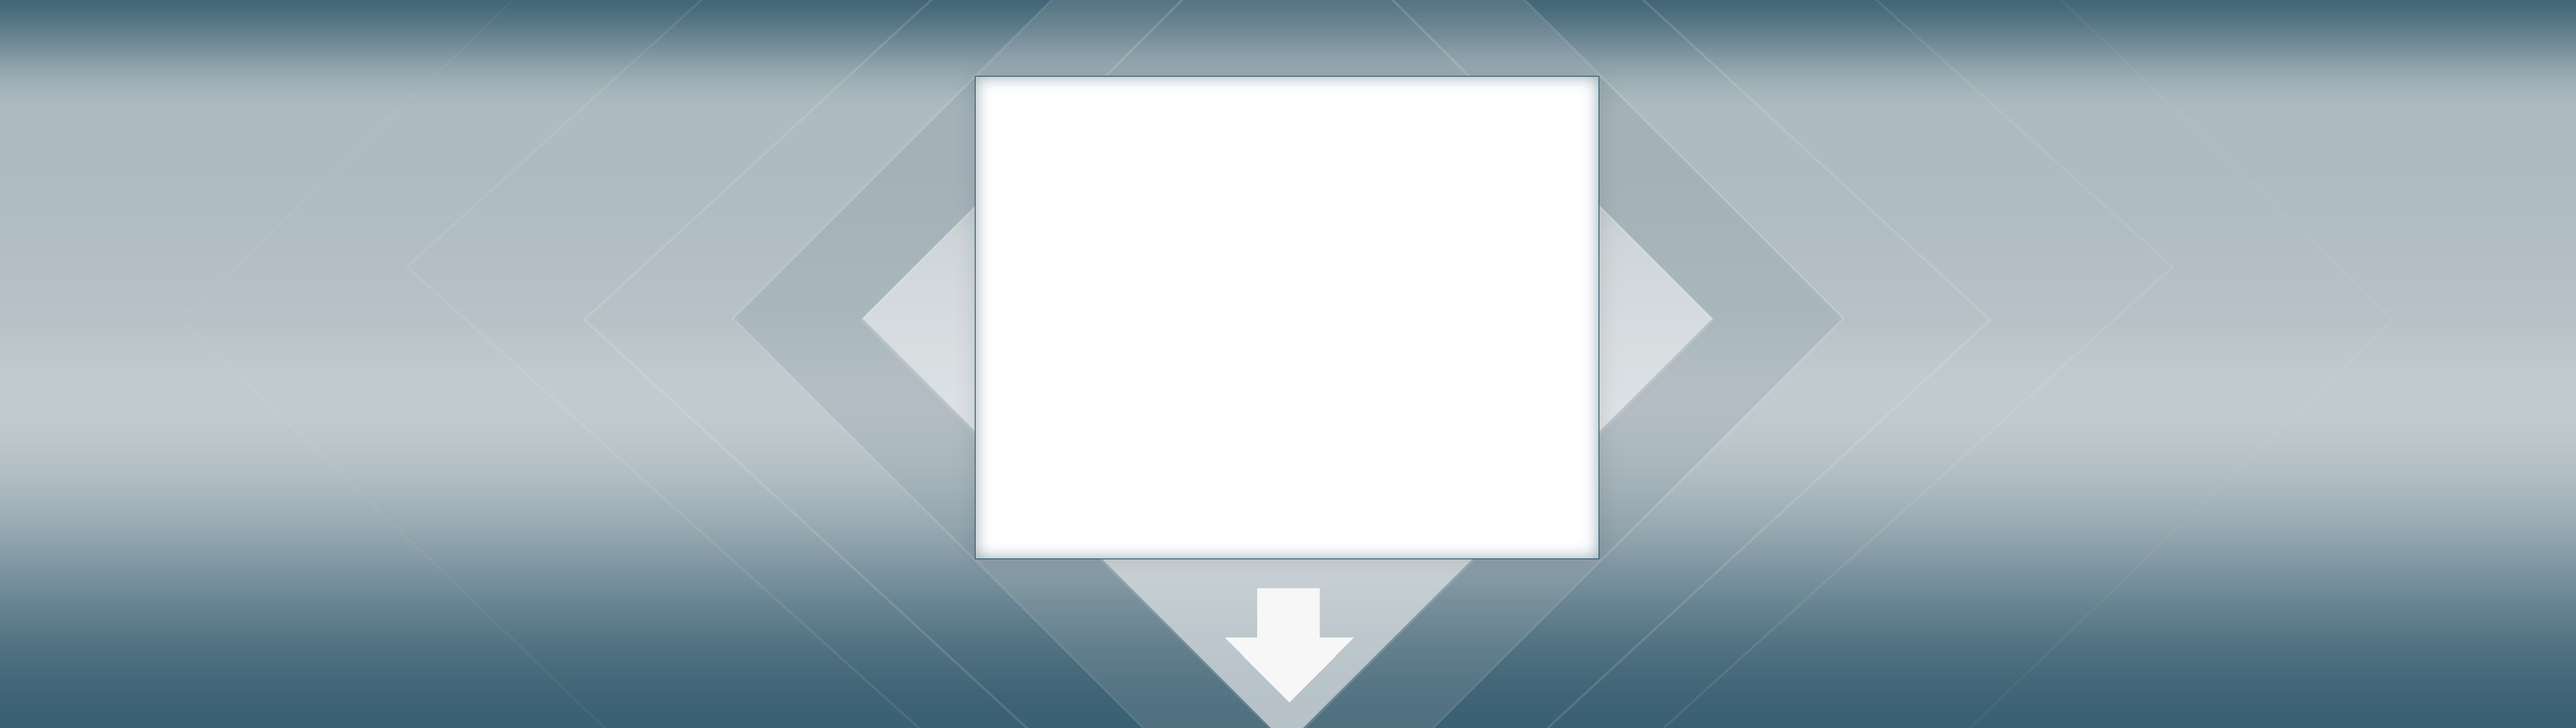
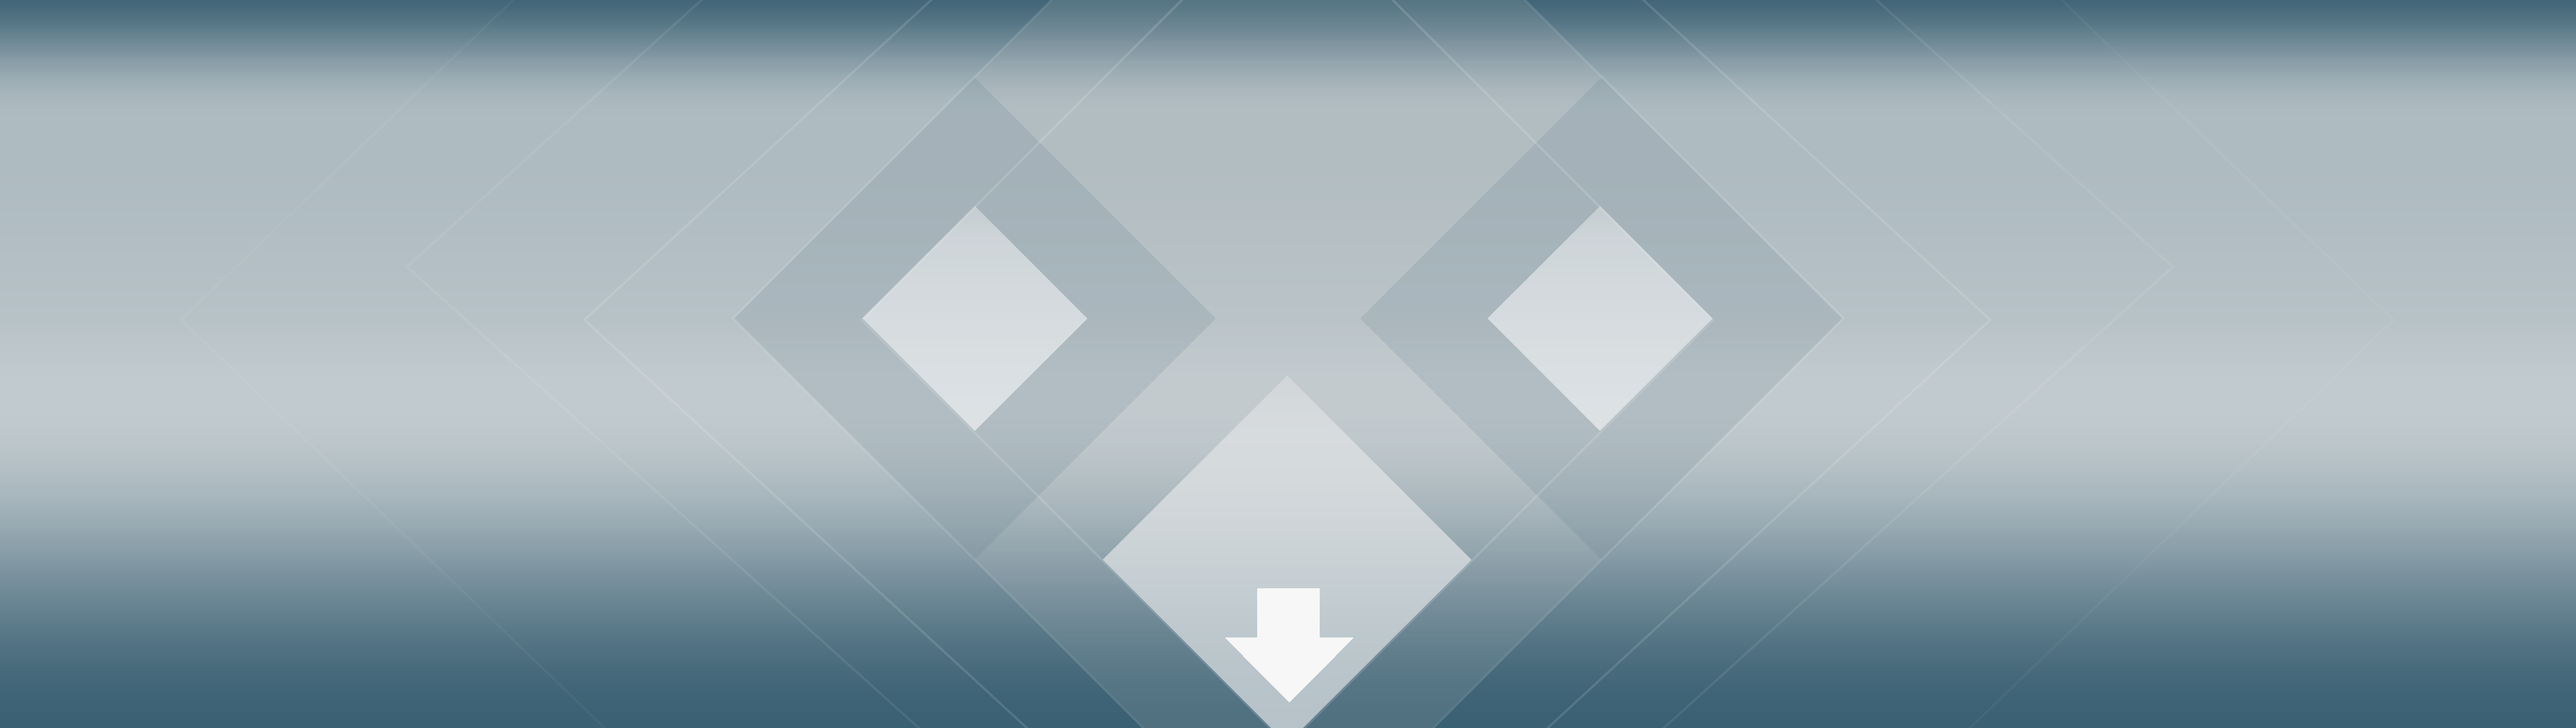
Add files via upload

Changed region(s): [[0.375, 0.0928, 0.625, 0.7734]]

diff --git a/css/style.css b/css/style.css
@@ -107,9 +107,18 @@ a:link {
     z-index: 2;
   }
 
+
+    @media (max-width: 768px) {
+        .bgimage{
+            background-image: url('/images/background_portfolio_cutout_mobile.png');
+        }
+    }
+
+  
+
   .bgimage-inner {
     position: absolute;
-    top: -8px;
+    top: -9px;
     left: 0;
     width: 100%;
     height: 800px;
@@ -126,17 +135,19 @@ a:link {
 
   .bgimage-btm {
     position: relative;
-    overflow: hidden;
+    /* overflow: hidden; */
     padding-bottom: 20px; /* Keeps spacing below card */
+    height: 640px;
+    z-index: 0;
   }
   
   .bgimage-btm::before {
     content: "";
     position: absolute;
-    top: -100px;
+    top: -800px;
     left: 0;
     width: 100%;
-    height: 800px;
+    height: 600px;
     background-image: url('/images/background_portfolio_blue_btm.jpg');
     background-repeat: no-repeat;
     background-position: center top;
@@ -145,6 +156,52 @@ a:link {
     z-index: -1;
   }
 
+  .section {
+    position: relative;
+    z-index: 1;
+  }
+
+  .contact-parallax-wrapper {
+    position: relative;
+    overflow: hidden; /* Keeps background within the section */
+    min-height: 500px;
+  }
+
+
+  .contact-title-parallax,
+.contact-card-parallax {
+  will-change: transform;
+}
+  
+
+  
+  .parallax-background {
+    position: absolute;
+    top: -358px;
+    left: 0;
+    width: 100%;
+    height: 800px;
+    background-image: url('/images/background_portfolio_blue_btm.jpg');
+    background-repeat: no-repeat;
+    background-position: center top;
+    background-size: cover;
+    transform: scaleY(-1);
+    z-index: 0;
+  }
+
+  @media (max-width: 768px) {
+    .parallax-background {
+        background-image: none;
+    }
+}
+
+  .section-divider-3 {
+    position: relative; /* ← this is required for z-index to work */
+    height: 40px;
+    width: 100%;
+    background: linear-gradient(to top, rgb(35, 58, 69) 0%, rgb(58, 96, 115) 60%, rgb(58, 96, 115) 80%, rgb(51, 83, 101) 100%); 
+    z-index: 2;
+}
 
   #portfolio {
     margin-top: 0 !important;
@@ -156,6 +213,7 @@ a:link {
     top: -2px;
     height: 60px; /* Or however tall the wrapper needs to be */
     overflow: visible;
+    
   }
 
   .content-wrapper {
@@ -1585,11 +1643,7 @@ section {
     background: rgb(51, 83, 101) ; 
 }
 
-.section-divider-3 {
-    height: 40px;
-    width: 100%;
-    background: linear-gradient(to top, rgb(35, 58, 69) 0%, rgb(58, 96, 115) 60%, rgb(58, 96, 115) 80%, rgb(51, 83, 101) 100%); 
-}
+
 
 .thick-border {
     border-top: 2px solid rgb(51, 83, 101) 100%);

diff --git a/script/script.js b/script/script.js
@@ -889,8 +889,60 @@ const form = document.getElementById('contactForm');
       topLayer.style.transform = `translateY(${scrollTop * topLayerSpeed}px)`;
     }
 
+
     
   });
+
+
+  //bottom parallax
+  document.addEventListener('scroll', function () {
+    const scrollTop = window.pageYOffset || document.documentElement.scrollTop;
+    const speed = 0.08;
+  
+    const title = document.querySelector('.contact-title-parallax');
+    const background = document.querySelector('.parallax-background');
+  
+    if (!title) return;
+  
+    const titleRect = title.getBoundingClientRect();
+    const windowHeight = window.innerHeight;
+  
+    const visibleRatio = Math.min(Math.max(1 - titleRect.top / windowHeight, 0), 1);
+  
+    // 👇 Control how quickly scaling completes — reaches maxScale by 40% visibility
+    const rampUpThreshold = 0.5;
+  
+    const minScale = 0.6;
+    const maxScale = 1;
+    let scale = minScale;
+  
+    if (visibleRatio >= rampUpThreshold) {
+      scale = maxScale;
+    } else {
+      // scale up proportionally within the ramp-up range
+      const adjustedRatio = visibleRatio / rampUpThreshold;
+      scale = minScale + (maxScale - minScale) * adjustedRatio;
+    }
+  
+    let translateY = 0;
+  
+    if (window.innerWidth > 992) {
+      translateY = scrollTop * speed * 0.8 - 210;
+    } else if (window.innerWidth >= 768 && window.innerWidth <= 992) {
+      translateY = scrollTop * speed * 0.8 - 232;
+    }
+  
+    title.style.transform = `translateY(${translateY}px) scale(${scale})`;
+  
+    if (background) {
+      background.style.transform = `translateY(${scrollTop * speed}px) scaleY(-1)`;
+    }
+  });
+  
+  
+  
+  
+  
   
  
 

diff --git a/index.html b/index.html
@@ -818,15 +818,16 @@
 
 
 
-<section class="bgimage-btm pb-md-3" id="contact">
+<section class="contact-parallax-wrapper" id="contact">
+  <div class="parallax-background"></div> 
 
 <div class="container-fluid section">
-  <h1 class="text-center d-flex pt-3 justify-content-center">Contact</h1>
+  <h1 class="contact-title-parallax text-center d-flex pt-3 justify-content-center">Contact</h1>
     
    
   
   </div>
-  <div class="my-card shadow-lg-md text-center profile-card mx-auto">
+  <div class="contact-card-parallax my-card shadow-lg-md text-center profile-card mx-auto">
 
     <!-- Profile Picture -->
     <!-- <img src="/images/MB.png" alt="Profile Picture" class="profile-pic mx-auto mb-2"> -->
